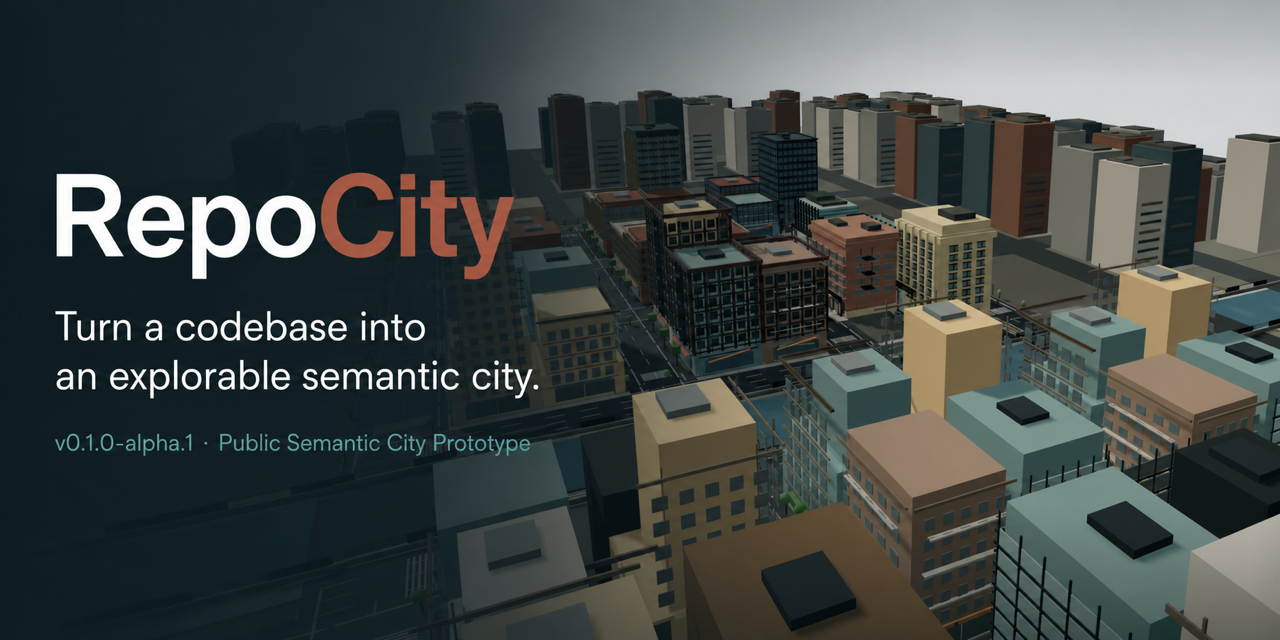
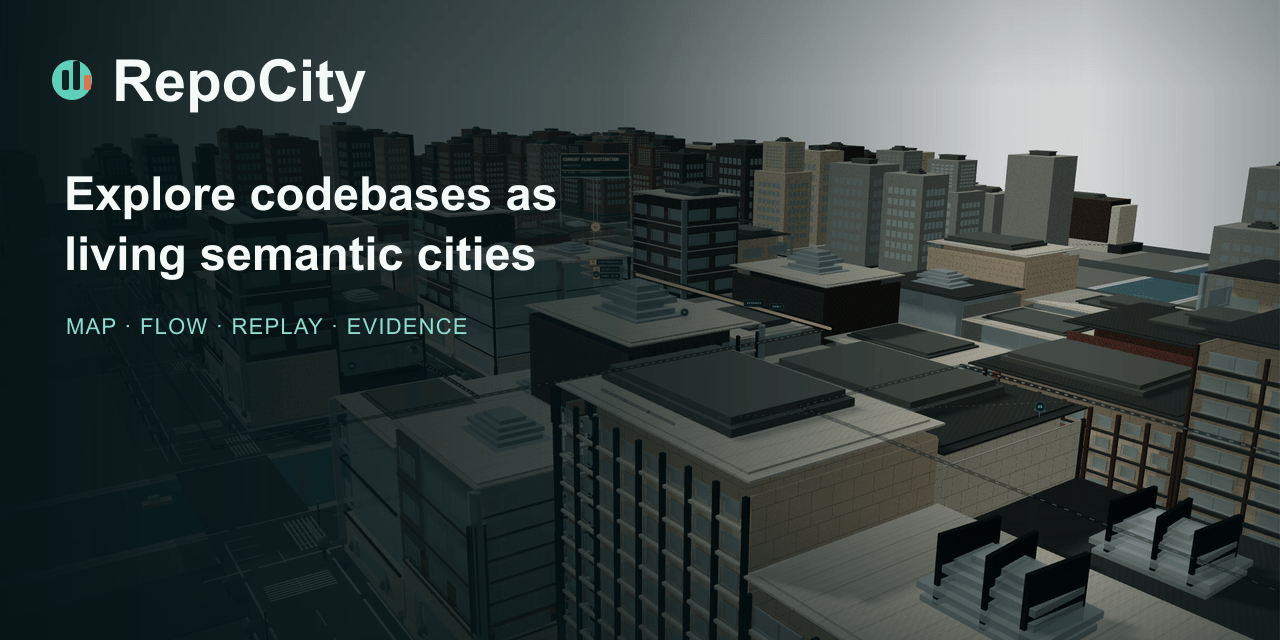
release: prepare semantic city showcase

diff --git a/app/layout.tsx b/app/layout.tsx
@@ -19,11 +19,11 @@ export async function generateMetadata(): Promise<Metadata> {
   return {
     metadataBase,
     title: {
-      default: "RepoCity — Semantic City Prototype",
+      default: "RepoCity — Semantic City Showcase",
       template: "%s · RepoCity",
     },
     description:
-      "Turn a codebase into an explorable semantic city with evidence-backed journeys.",
+      "Explore codebases as living semantic cities with evidence-backed journeys.",
     applicationName: "RepoCity",
     keywords: [
       "RepoCity",
@@ -34,8 +34,8 @@ export async function generateMetadata(): Promise<Metadata> {
       "代码可视化",
     ],
     openGraph: {
-      title: "RepoCity — Public Semantic City Prototype",
-      description: "Explore repository structure and evidence-backed journeys as an interactive 3D city.",
+      title: "RepoCity — Semantic City Showcase",
+      description: "Explore repository structure and evidence-backed journeys as an interactive living city.",
       type: "website",
       locale: "zh_CN",
       images: [
@@ -49,8 +49,8 @@ export async function generateMetadata(): Promise<Metadata> {
     },
     twitter: {
       card: "summary_large_image",
-      title: "RepoCity — Public Semantic City Prototype",
-      description: "Turn a codebase into an explorable semantic city.",
+      title: "RepoCity — Semantic City Showcase",
+      description: "Explore codebases as living semantic cities.",
       images: [socialImage],
     },
   };

diff --git a/README.md b/README.md
@@ -2,81 +2,75 @@
 
 # RepoCity
 
-**Turn a codebase into an explorable semantic city.**
+**RepoCity turns a codebase into an explorable semantic city.**
 
 Navigate components, modules, files, symbols, dependencies, Git history, and evidence-backed journeys through an interactive 3D repository map.
 
 [![CI](https://github.com/ChanTso/repocity/actions/workflows/ci.yml/badge.svg)](https://github.com/ChanTso/repocity/actions/workflows/ci.yml)
-[![License](https://img.shields.io/badge/license-Apache--2.0-blue.svg)](LICENSE)
-[![Status](https://img.shields.io/badge/status-v0.1.0--alpha.2-f59e0b.svg)](CHANGELOG.md)
+[![License](https://img.shields.io/github/license/ChanTso/repocity)](LICENSE)
+[![Release](https://img.shields.io/github/v/release/ChanTso/repocity?include_prereleases&label=release)](https://github.com/ChanTso/repocity/releases)
 
 </div>
 
-![RepoCity semantic city with evidence-backed flows](docs/media/repocity-hero.png)
+![RepoCity semantic city with a visible evidence journey](docs/media/repocity-v0.2-hero.png)
 
 > [!IMPORTANT]
-> RepoCity is an experimental public alpha. Its repository-semantic mapping and evidence-backed journeys are functional; the renderer, supported repository coverage, and semantic zoom remain active prototypes.
+> **Experimental showcase release.** Semantic mapping, Map, Flow, Replay, and deterministic city context are functional; visual fidelity and repository coverage remain intentionally bounded.
 
-## What is RepoCity?
+## What it is
 
-RepoCity is a local-first 3D repository explorer. It translates software structure into a stable urban hierarchy instead of treating every file as an unrelated tower:
+RepoCity is a local-first 3D repository explorer. It projects real repository structure into a stable urban hierarchy:
 
 ```text
 repository
 └── component / workspace / package
-    └── module or file group
+    └── module group
         └── file
             └── symbol / export
 ```
 
-Districts provide component-level context. Buildings stay linked to real repository entities. Roads aggregate static structural relationships. Evidence-backed journeys trace supported paths through the system without presenting decorative city life as runtime telemetry.
+Districts and buildings preserve semantic ownership. Roads summarize static structural relationships. Evidence journeys explain supported paths with visible provenance. Vehicles, pedestrians, boats, storefronts, and city activity provide deterministic context only—they are not runtime traffic or production telemetry.
 
-## Highlights
+## See it in motion
 
-- Deterministic spatial addresses for repository entities
-- Components distributed across connected districts and blocks
-- Building, module-group, file, symbol, and export inspection
-- Evidence-backed repository and delivery journeys
-- Explore, semantic Map, evidence Flow, and Git-history Replay modes
-- River, bridge, street, transit, and asset-backed hero-district context
-- Deterministic ambient lanes, sidewalks, crossings, entrances, riverwalks, and boats that remain explicitly non-semantic
-- Explicit provenance for inferred and simulated information
-- Local analysis that does not execute the target repository
+![An evidence-backed journey moving through RepoCity while ambient city life continues](docs/media/repocity-v0.2-flow.gif)
 
-## Evidence-backed journeys
+Flow keeps the evidence journey visually distinct from the surrounding city. Pausing Flow pauses evidence only; deterministic ambient movement continues independently.
 
-![RepoCity evidence-backed flow](docs/media/repocity-flow.png)
+## Why a city
 
-Flow mode turns supported repository relationships into inspectable journeys. Routes identify their provenance and evidence. Reduced ambient vehicles and people remain visible for city scale, but the persistent legend and rendering language identify them as deterministic, non-semantic context rather than telemetry.
+A city makes several repository relationships visible at once: ownership becomes geography, size becomes massing, dependencies become connections, history becomes construction, and a supported explanation becomes a journey through those facts. The metaphor is useful only while the repository graph stays authoritative, so every inferred or simulated layer is labeled rather than presented as measured truth.
 
-Ambient density is a fixed city-presentation budget. It is not derived from repository importance, runtime demand, or production traffic, and pausing Flow evidence does not pause the surrounding city context.
+## Explore, Map, Flow, Replay
 
-Read [Evidence flows](docs/evidence-flows.md).
+| Mode | What it answers |
+| --- | --- |
+| **Explore** | What exists, where it lives, and how the repository feels as a whole |
+| **Map** | Which component owns each block, building, file, and symbol |
+| **Flow** | How an evidence-backed or explicitly simulated journey crosses the system |
+| **Replay** | How Git history changed the city while preserving entity identity |
 
-## Semantic inspection
+![Semantic Map with multi-block ownership, breadcrumb, address, and inspector](docs/media/repocity-v0.2-map.png)
 
-![RepoCity semantic inspector](docs/media/repocity-inspector.png)
+![Street-level architecture with deterministic pedestrians and vehicles](docs/media/repocity-v0.2-street.png)
 
-Map mode reduces the city context and exposes component ownership, semantic building envelopes, stable addresses, one-hop relations, and a repository-to-symbol breadcrumb. Select a file to inspect its repository facts and the deterministic rules behind “为什么在这里？”.
+## How meaning maps to the city
 
-Read the [Semantic model](docs/semantic-model.md).
+```mermaid
+flowchart LR
+    A["Repository facts"] --> B["Semantic ownership"]
+    B --> C["Deterministic spatial projection"]
+    C --> D["Districts · blocks · buildings"]
+    A --> E["Static relationships"]
+    E --> F["Evidence-backed journeys"]
+    G["Deterministic ambient context"] --> D
+```
 
-## Street-level visual system
-
-![RepoCity street detail](docs/media/repocity-street-detail.png)
-
-The current development candidate extends its original brick, stone, steel, bronze, glass, storefront, street, river-edge, and bridge language across the semantic core through deterministic modular Chicago Kit v2 signatures. Outer context still uses progressively simpler level-of-detail geometry.
-
-Read the [Visual system](docs/visual-system.md) and [Chicago Kit v2 art bible](docs/CHICAGO_KIT_V2.md).
+The semantic contract is documented in [Semantic model](docs/semantic-model.md) and [Evidence flows](docs/evidence-flows.md). Rendering and ambient context never create repository facts.
 
 ## Quick start
 
-### Prerequisites
-
-- Node.js 22.23.0 or another compatible Node.js 22 release
-- npm 10+
-- Git 2.40+
-- A desktop browser with WebGL 2 support
+Requirements: Node.js 22, npm 10+, Git 2.40+, and a desktop browser with WebGL 2.
 
 ```bash
 git clone https://github.com/ChanTso/repocity.git
@@ -85,25 +79,26 @@ npm ci
 npm run dev
 ```
 
-Open the local URL printed by the development server. The bundled demonstration is selected by default; `/?project=tiny` loads the deterministic five-commit fixture.
+Open the local URL printed by the development server. The polished deterministic demo city loads directly and requires no GitHub token. `/?project=tiny` opens the small repository fixture.
 
-### Analyze a repository
+### Analyze locally
+
+RepoCity has no online GitHub-URL ingestion service. Build a city bundle locally, then open it in the viewer:
 
 ```bash
 npm run repocity -- build ./path/to/repository \
   --out ./public/projects/my-city
 ```
 
-You can also pass a public Git URL. Open `/?project=my-city` after compilation. Generated data includes repository paths, metrics, relations, Git facts, and optional knowledge Markdown—not complete source files.
+Open `/?project=my-city`. The local CLI can also clone a public Git URL into a temporary directory; it does not use a hosted analysis backend or execute the target repository.
 
 ### Controls
 
-- Drag to orbit; scroll to zoom; right-drag to pan.
-- Click to select; double-click or press `F` to focus the selection.
+- Drag to orbit, scroll to zoom, right-drag to pan.
+- Click to select; double-click or press `F` to focus.
 - Press `Cmd/Ctrl+K` to search and `H` to toggle the HUD.
-- Use 探索 / 地图 / 流动 / 回放 to separate city experience, repository ownership, evidence journeys, and Git evolution.
-- In Flow or Replay, press `Space` to play/pause; use arrow keys to step through a flow.
-- Press `1`–`8` for the street, storefront, river/bridge, glass-facade, city-composition, public-alpha hero, civic, and riverfront-review cameras.
+- Press `Space` to pause Flow evidence or Replay; use arrow keys to step through a Flow.
+- Press `1`–`8` for curated street, river, facade, city, civic, and riverfront cameras.
 
 ## Validate
 
@@ -111,56 +106,41 @@ You can also pass a public Git URL. Open `/?project=my-city` after compilation. 
 npm run check
 ```
 
-This runs linting, type checking, workspace and application tests, the production build, and rendered-HTML checks. See [Development](docs/development.md) for individual commands.
+This runs lint, type checking, workspace and application tests, the production build, and rendered-HTML checks.
 
 ## Architecture
 
 ```mermaid
 flowchart LR
-    A["Local path or public Git URL"] --> B["Git and code analyzers"]
+    A["Local path or public Git URL"] --> B["Git + code analyzers"]
     B --> C["Validated semantic bundle"]
-    C --> D["Deterministic city plan"]
-    D --> E["3D explorer and Git replay"]
-    C --> F["Evidence-backed journeys"]
+    C --> D["Deterministic city compiler"]
+    D --> E["3D Explore · Map · Replay"]
+    C --> F["Evidence journey planner"]
     F --> E
 ```
-
-The repository graph remains authoritative. Spatial generation arranges facts; it must not fabricate them.
 
 - [Architecture](docs/ARCHITECTURE.md)
 - [Data format](docs/DATA_FORMAT.md)
 - [Semantic model](docs/semantic-model.md)
 - [Evidence flows](docs/evidence-flows.md)
 - [Visual system](docs/visual-system.md)
+- [Chicago Kit v2](docs/CHICAGO_KIT_V2.md)
 - [Development](docs/development.md)
 
-## Public alpha boundaries
+## Current scope and limits
 
-Available now:
+- Curated experimental showcase, not a production observability product.
+- Local JavaScript and TypeScript repository analysis; language and repository-shape coverage is bounded.
+- The full-city demo is a deterministic product dataset; `tiny` is generated from a real fixture repository.
+- Chicago-inspired stylized rendering, not a photoreal Chicago digital twin.
+- Ambient city life is deterministic non-semantic context, never claimed as measured activity.
+- No online GitHub URL ingestion, hosted analysis queue, production telemetry, or performance guarantee across devices.
+- The production build has known non-blocking bundle-size and route-classification warnings.
+- No future release cadence is promised.
 
-- JavaScript and TypeScript repository analysis;
-- stable entity identity across add, rename, modify, and delete history;
-- deterministic city planning and semantic selection;
-- component, building/module-group, file, symbol, and export-oriented inspection;
-- inferred and simulated evidence journeys;
-- original asset-backed hero district and simplified outer-city LOD;
-- desktop Explore, Map, Flow, and Replay experiences.
+## License
 
-Known limitations:
+RepoCity source and original City Kit assets are licensed under the [Apache License 2.0](LICENSE). Third-party packages retain their own licenses; see [Third-party notices](THIRD_PARTY_NOTICES.md) and the [City Kit v2 asset manifest](docs/assets/city-kit-v2-manifest.md).
 
-- the bundled full-city demo is a deterministic product dataset, while `tiny` is generated from a real fixture repository;
-- visual fidelity is intentionally concentrated in the hero district;
-- full semantic zoom and broader language coverage are incomplete;
-- ambient people, vehicles, storefronts, and street furniture are context, not observed telemetry;
-- performance depends on browser, GPU, repository size, and device-pixel ratio;
-- the production build currently reports non-blocking bundle-size and route-classification warnings.
-
-## Contributing, security, and license
-
-Contributions are welcome after reading [CONTRIBUTING.md](CONTRIBUTING.md) and the [Code of Conduct](CODE_OF_CONDUCT.md). Report vulnerabilities according to [SECURITY.md](SECURITY.md), not in a public issue.
-
-RepoCity source and original city-kit assets are licensed under [Apache License 2.0](LICENSE). Third-party packages and their licenses remain their authors' property; see [THIRD_PARTY_NOTICES.md](THIRD_PARTY_NOTICES.md) and the [asset manifest](docs/assets/city-kit-v1-manifest.md).
-
-## Status
-
-The current release is **RepoCity v0.1.0-alpha.2 — Public Semantic City Prototype**. The roadmap is intentionally open-ended; no further release cadence is promised. See [CHANGELOG.md](CHANGELOG.md).
+Security reports belong in GitHub private vulnerability reporting; see [SECURITY.md](SECURITY.md). Small, focused contributions can follow [CONTRIBUTING.md](CONTRIBUTING.md) and the [Code of Conduct](CODE_OF_CONDUCT.md).

diff --git a/docs/CHICAGO_KIT_V2.md b/docs/CHICAGO_KIT_V2.md
@@ -2,7 +2,7 @@
 
 Chicago Kit v2 is RepoCity's deterministic, full-city architectural language for the v0.2 development line. It replaces the semantic core's generic stretched envelopes and the context rings' blank slabs with fitted modular facades while leaving repository facts, ownership, roads, blocks, addresses, Living Streets, Flow, and Replay unchanged.
 
-This document is an art bible and implementation contract. It does not announce a v0.2 release.
+This document is the art bible and implementation contract for the Chicago Kit v2 system released in v0.2.0.
 
 ## Baseline audit
 
@@ -59,7 +59,7 @@ Nine families share a named module grammar: two base/ground-floor variants, thre
 
 `app/lib/chicago-kit-v2-definition.json` is the single canonical module source. Both the runtime compiler and `scripts/generate-city-kit-v2.mjs` consume it. The generator emits nine original GLB reference catalogs to `public/assets/city-kit-v2/`; their exact root maps and recipe fingerprints are checked against runtime definitions in CI. The GLBs are explicitly tooling/reference artifacts. Runtime recipes compile into material-and-primitive instanced batches using shared box, reveal, oriel, curtain-panel, corner, cornice, crown, awning, and context-facade geometries instead of one scene graph per facade part.
 
-The corrected v2 catalog payload is 1,970,652 bytes. It is additive during Draft review: City Kit v1 is deliberately not removed until v2 is accepted.
+The corrected v2 catalog payload is 1,970,652 bytes. City Kit v1 remains as the original reusable hero-slice catalog and compatibility reference; v2 supplies the full-city architectural system.
 
 One world unit remains approximately three metres. Floor count, bay count, residual pier width, podium height, and setbacks are derived discretely. A completed facade is never blindly stretched to an envelope. Maximum measured dimension deviation in the standard demo is 31.9%, below the documented 34% fitting tolerance.
 
@@ -116,7 +116,7 @@ Family use is intentionally uneven: ordinary Chicago masonry and narrow commerci
 
 ## Visual checkpoint and limitations
 
-The failed Owner package remains in `screenshots/chicago-kit-v2/review-fixes/`. The replacement package awaiting re-check is in `screenshots/chicago-kit-v2/owner-recheck/`. It contains six HUD-hidden 1920×1080 acceptance captures, a 3×2 `contact-sheet.png`, and separate Map/Flow regression frames. These are real renderer pixels, not generated concept art.
+The failed Owner package remains in `screenshots/chicago-kit-v2/review-fixes/` as history. The accepted corrective baseline is in `screenshots/chicago-kit-v2/owner-recheck/`; final release media is in `docs/media/`. Every image is made from real renderer pixels, not generated concept art.
 
 This remains a stylized public-alpha renderer. Brick, stone, concrete, and metal now use separate small shared deterministic sRGB albedo and linear height maps sampled in world space, with one cached pair per material rather than per building. Translucent office glass reveals shallow warm interior cards; small facade elements simplify at overview distance; and context rings intentionally have less street-level detail than the core. The work aims for coherent Chicago-inspired identity, not photo-realism or a landmark replica.
 

diff --git a/docs/media/README.md b/docs/media/README.md
@@ -1,12 +1,12 @@
-# Public alpha media manifest
+# RepoCity v0.2 showcase media manifest
 
-The four product images are authentic RepoCity captures at a 1920×1080 browser viewport. The README hero was refreshed from the `v0.1.0-alpha.2` main baseline; the other three images remain from the `v0.1.0-alpha.1` release candidate. They contain no browser chrome, external game imagery, private repositories, personal information, or generated replacement scenery.
+The v0.2 package is captured directly from the running application at commit `75981ecfa5039de811ad3e57134b0b6b3ab423f5`. It contains no browser chrome, external game imagery, private repositories, personal information, AI-generated replacement scenery, or simulated post-production camera movement.
 
 | File | Purpose | Capture state | SHA-256 |
 | --- | --- | --- | --- |
[8 lines of base64/hex data omitted]
 
[2 lines of base64/hex data omitted]

diff --git a/CHANGELOG.md b/CHANGELOG.md
@@ -4,6 +4,8 @@ All notable public releases are documented here. RepoCity uses semantic versioni
 
 ## [Unreleased]
 
+## [0.2.0] — 2026-08-03
+
 ### Added
 
 - Dedicated semantic Map mode with component ownership, building envelopes, stable addresses, deterministic labels, and repository-to-symbol breadcrumbs.
@@ -20,7 +22,13 @@ All notable public releases are documented here. RepoCity uses semantic versioni
 - Ambient playback remains independent from Flow evidence pause; Map and Replay keep the same cohort visually subordinate.
 - Full-city architecture is selected from urban zone and spatial conditions rather than component identity or display color; selection continues to resolve existing semantic owners.
 
-This section describes an unmerged development candidate and does not announce a v0.2 release or schedule.
+### Showcase boundaries
+
+- Curated experimental release with local repository analysis and no hosted GitHub URL-ingestion service.
+- JavaScript and TypeScript support remains bounded; the full-city demo is a deterministic product dataset.
+- Rendering is intentionally Chicago-inspired and stylized, not a photoreal digital twin.
+- Ambient people, vehicles, and boats remain deterministic non-semantic context rather than telemetry.
+- No future release cadence is promised.
 
 ## [0.1.0-alpha.2] — 2026-08-02
 

diff --git a/docs/visual-system.md b/docs/visual-system.md
@@ -2,7 +2,7 @@
 
 RepoCity's current renderer combines semantic geometry with non-semantic urban context.
 
-## Full-city Chicago Kit v2 development candidate
+## Full-city Chicago Kit v2
 
 Chicago Kit v2 extends the asset strategy from five complete hero roots to nine deterministic modular architectural families across all 72 semantic-core envelopes. The runtime fits discrete bays and floors, then instances module boxes in shared material batches. Ring 1 receives family facade structure; Rings 2–3 receive family silhouettes and roof treatments rather than blank slabs.
 

diff --git a/docs/SEMANTIC_LENS_V0_2.md b/docs/SEMANTIC_LENS_V0_2.md
@@ -1,6 +1,6 @@
 # RepoCity v0.2 — Semantic Lens
 
-Status: review candidate. This document records the verified baseline, implementation contract, and local acceptance evidence for the first `v0.2 — Legible Living City` pull request. It does not describe a released version.
+Status: released in v0.2.0. This document preserves the verified baseline, implementation contract, and local acceptance evidence for Semantic Lens.
 
 ## Verified baseline
 

diff --git a/docs/LIVING_STREETS_V0_2.md b/docs/LIVING_STREETS_V0_2.md
@@ -1,6 +1,6 @@
 # Living Streets v0.2
 
-Living Streets is an unreleased activity-layer candidate. It makes the existing city visibly occupied without turning decorative traffic into repository evidence or runtime telemetry.
+Living Streets shipped in v0.2.0. It makes the city visibly occupied without turning decorative traffic into repository evidence or runtime telemetry.
 
 ## Baseline and implementation
 

diff --git a/docs/CHICAGO_KIT_V2_REVIEW.md b/docs/CHICAGO_KIT_V2_REVIEW.md
@@ -1,4 +1,6 @@
-# Chicago Kit v2 owner visual review
+# Chicago Kit v2 owner visual review (historical)
+
+> This records the rejected intermediate visual baseline. The corrective baseline was later accepted for the v0.2.0 showcase; see [Chicago Kit v2](CHICAGO_KIT_V2.md) and the [final media manifest](media/README.md).
 
 Status: **OWNER VISUAL REVIEW FAILED**.
 
